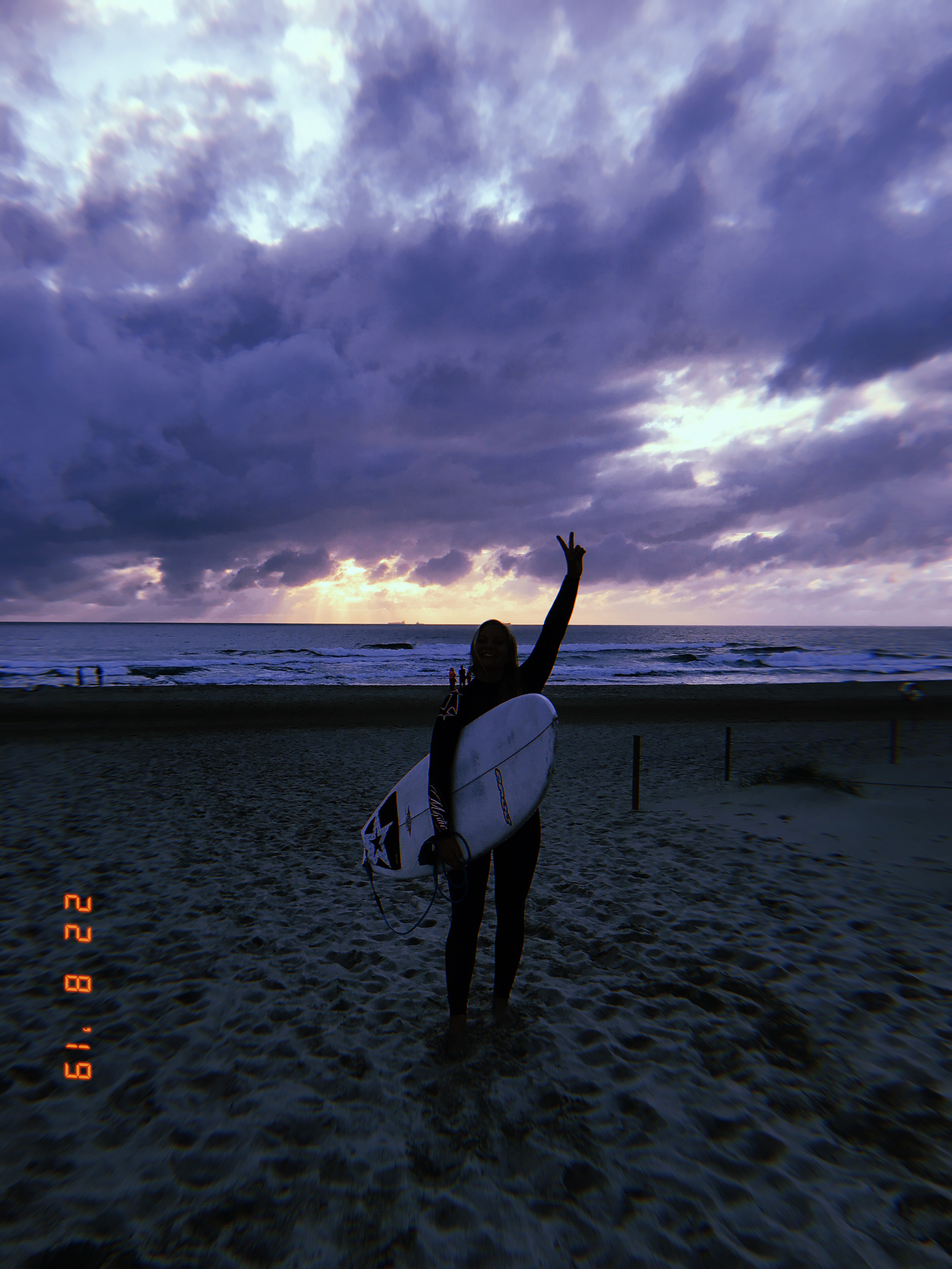
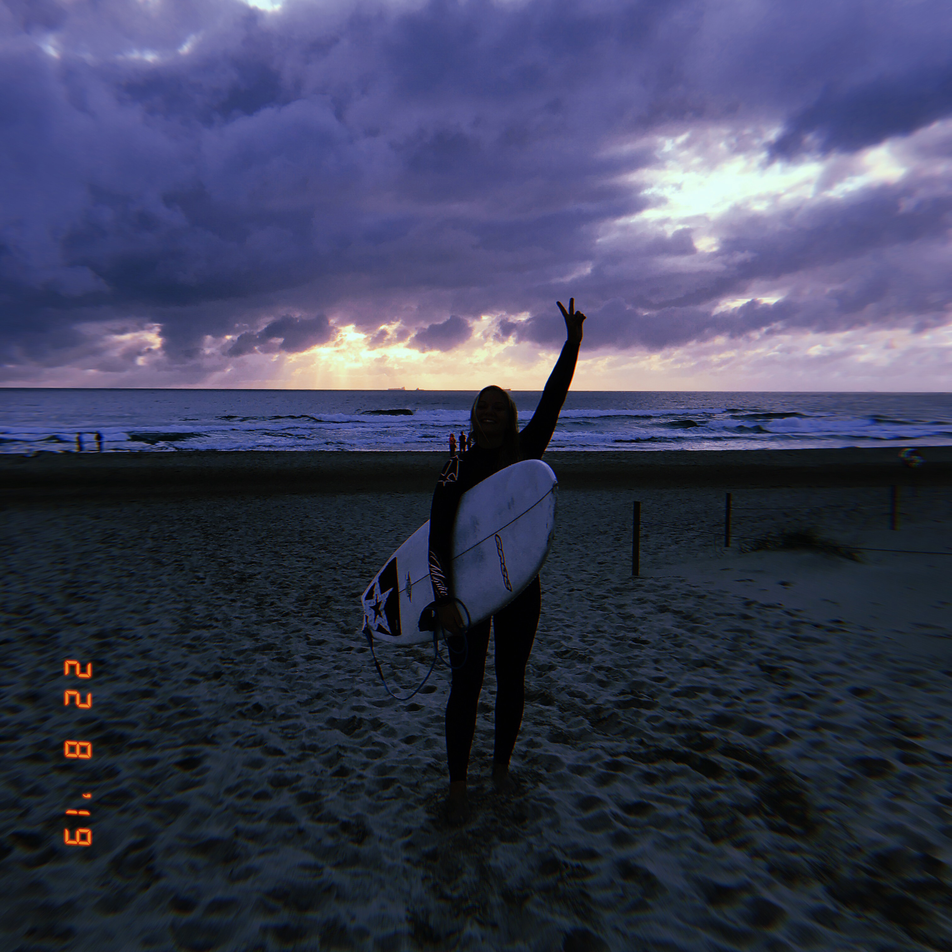
update

diff --git a/contact.html b/contact.html
@@ -75,13 +75,13 @@
                 <div class="form-error" id="messageError">Message must be minimum 10 characters</div>
             </div>
     
-              <button class="send-button">Submit</button>
+              <button class="send-button">Send</button>
           </form>
     
           </div>
     </main>
     <footer>
-      
+
     </footer>
 <script src="js/script.js"></script>
 <script src="js/contact.js"></script>

diff --git a/about.html b/about.html
@@ -65,7 +65,7 @@
                 <img src="images/hoddevik.jpg" alt="hoddevik" />
             </figure>
             <figure>
-                <img src="images/lombok.JPG" alt="me in Lombok, Indonesia" />
+                <img src="images/surf.jpg" alt="surf at bore beach, stavanger" />
             </figure>
             <figure>
                 <img src="images/tempelstå2.jpg" alt="me in Bali"/>
